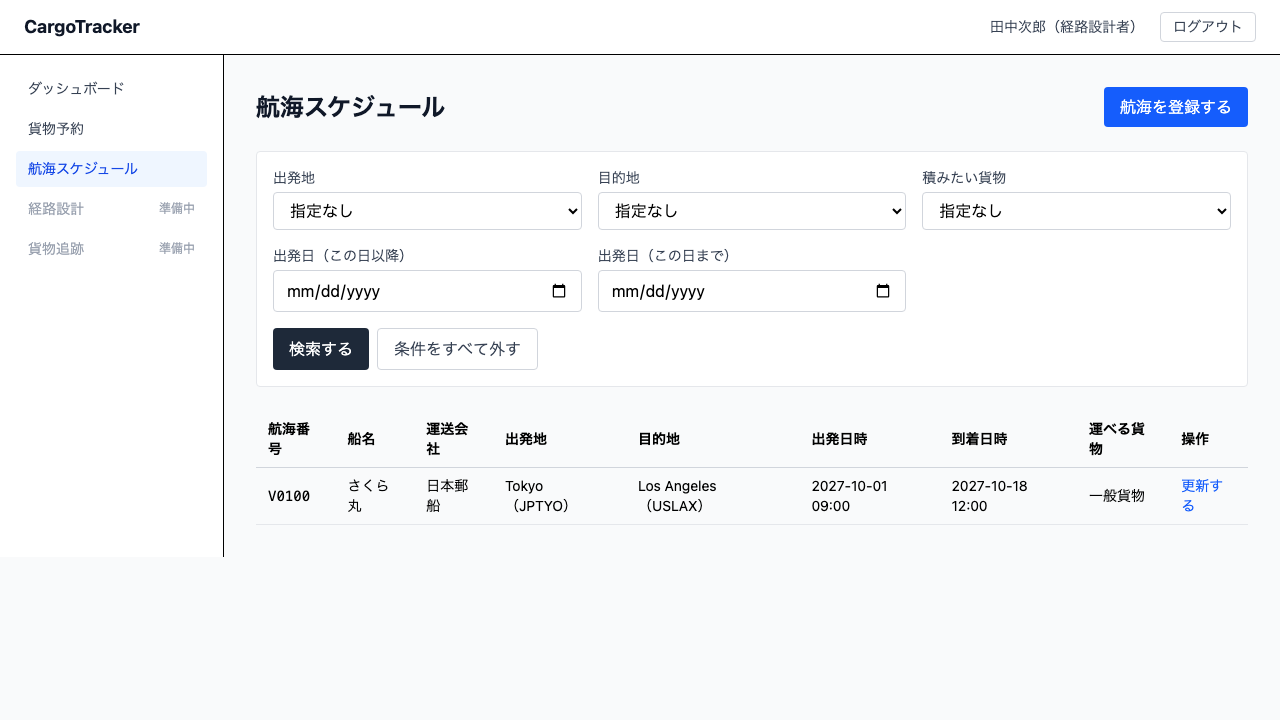
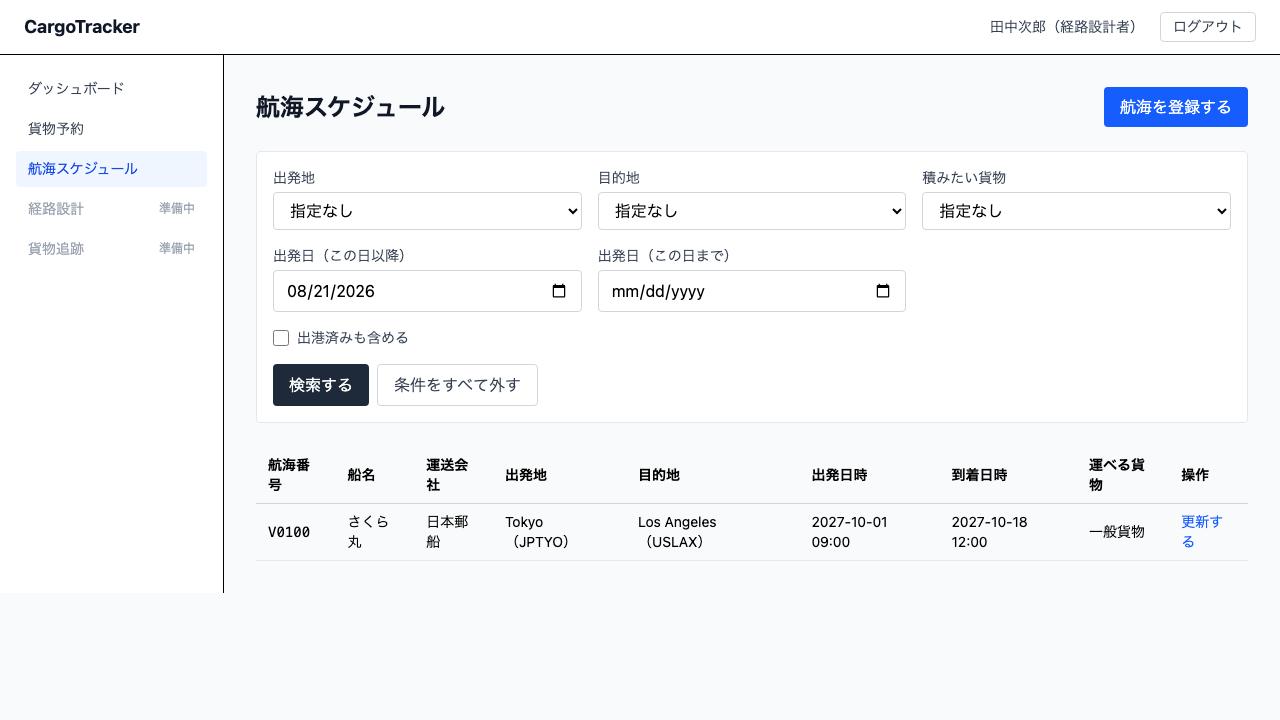
docs(manual): 航海スケジュールのキャプチャを実装に合わせて撮り直す
一覧は「出港済みも含める」が入り、既定が本日以降になった。差分は「日程」を全区間で
比べるようになったため、本文が説明する遅延（到着だけがずれる）が画像にも出るよう
生成手順を直した。

diff --git a/apps/frontend/e2e/manual/manual-screenshots.spec.ts b/apps/frontend/e2e/manual/manual-screenshots.spec.ts
@@ -175,20 +175,22 @@ test('05-voyage-difference（更新時の差分確認）', async ({ page }) => {
   await page.goto('/routing/voyages/new')
 
   // 同じ航海番号を 2 回。ページを読み直すとモックの登録が消えるため、同じ画面で続ける
-  async function submit(vesselName: string) {
+  // 2 回目は船名と到着日時を変える。マニュアル本文が「日程」の差分を説明しているため、
+  // 実務でいちばん多い遅延（到着だけがずれる）が画像にも出るようにする
+  async function submit(vesselName: string, arrival: string) {
     await page.getByLabel('航海番号').fill('V0300')
     await page.getByLabel('船名').fill(vesselName)
     await page.getByLabel('運送会社').fill('日本郵船')
     await page.getByLabel('1 区間目の出発地').selectOption('JPTYO')
     await page.getByLabel('1 区間目の到着地').selectOption('USLAX')
     await page.getByLabel('1 区間目の出発日時').fill('2027-12-01T09:00')
-    await page.getByLabel('1 区間目の到着日時').fill('2027-12-18T12:00')
+    await page.getByLabel('1 区間目の到着日時').fill(arrival)
     await page.getByRole('button', { name: '登録する' }).click()
   }
 
-  await submit('さくら丸')
+  await submit('さくら丸', '2027-12-18T12:00')
   await expect(page.getByText('航海 V0300 を登録しました')).toBeVisible()
-  await submit('つばき丸')
+  await submit('つばき丸', '2027-12-20T12:00')
   await expect(page.getByRole('button', { name: 'この内容で上書きする' })).toBeVisible()
 
   await page.screenshot({ path: `${ASSETS}/05-voyage-difference.png`, fullPage: true })
